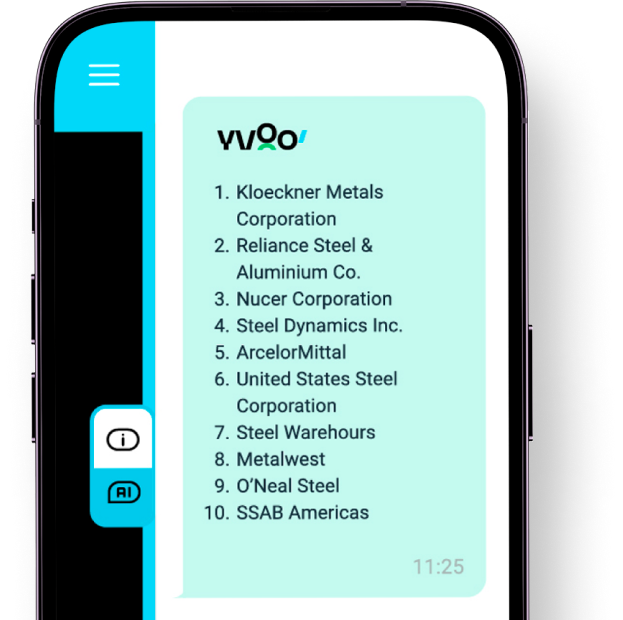
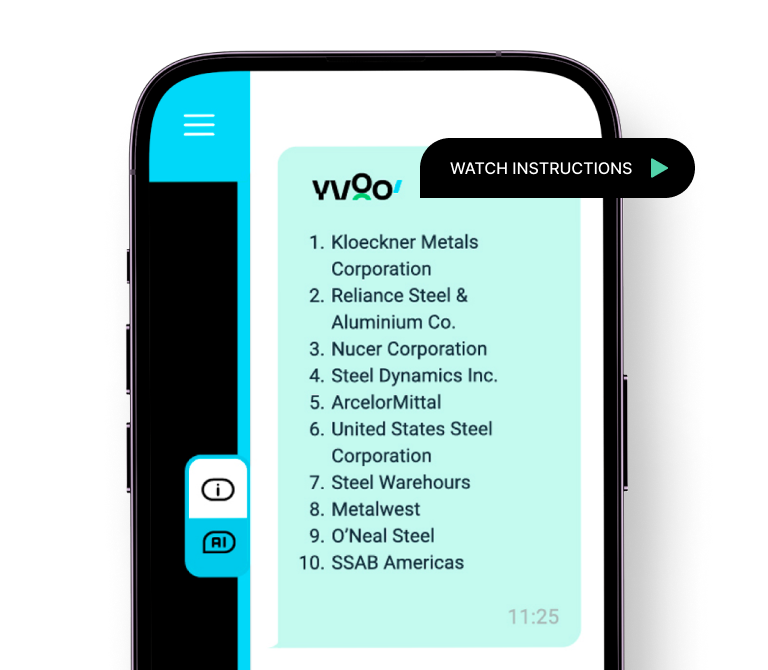
fix

diff --git a/components/Solutions/searchPro.js b/components/Solutions/searchPro.js
@@ -66,14 +66,14 @@ function SearchPro() {
           options in a matter of seconds.
         </p>
       </div>
-      <div className="relative w-full md:ml-[10px] md:min-w-[623px] min-w-[345px] 2xl:hidden block">
+      <div className="relative w-full md:min-w-[623px] min-w-[unset] 2xl:hidden block">
         <Image
-          src="/images/phone_md.png"
+          src="/images/phone_xs.png"
           alt="mobile"
           // fill
           width={746}
           height={797}
-          className="object-contain md:hidden block ml-[-17px]"
+          className="object-contain md:hidden block"
         />
         <Image
           src="/images/phone_md.png"
@@ -83,17 +83,6 @@ function SearchPro() {
           height={797}
           className="object-contain 2xl:hidden md:block hidden"
         />
-        <div className="absolute w-275px md:text-[16px] text-[12px] md:leading-[20px] leading-[16px] font-[500] md:py-[20px] py-[13px] md:pl-[30px] pl-[20px] md:pr-[26px] pr-[17px] bg-[#000] uppercase rounded-t-[30px] rounded-r-[30px] block md:top-[87px] top-[12px] md:left-[325px] left-[107px]">
-          watch instructions
-          <Image
-            src="/icons/watch-triangle.svg"
-            alt="mobile"
-            // fill
-            width={18}
-            height={18}
-            className="object-contain inline-block md:ml-[18px] ml-[13px] md:w-[unset] md:h-[unset] w-[12px] h-[18px]"
-          />
-        </div>
       </div>
     </div>
   );

diff --git a/components/Industries/scan.js b/components/Industries/scan.js
@@ -7,13 +7,13 @@ function Scan({ handleModal }) {
       id="scan"
       className="relative grid grid-cols-1 md:grid-cols-2 w-full bg-[#06D7F9]"
     >
-      <Image
+      {/* <Image
         src="/icons/greenTriangle.png"
         width={146}
         height={166}
         alt="triangle"
         className="hidden md:block absolute -top-[54px] md2:left-[18%] 2xl:left-[20%]"
-      />
+      /> */}
       <div className="px-[0px] md:px-[50px] md:py-[55px] md:py-0 md:flex-center flex-col h-[181px] md:h-[714px] 2xl:h-[914px] 3xl:h-[854px]">
         <div className="flex flex-col justify-center md:items-end md:flex-nowrap md:flex-col gap-[24px] 2xl:ml-[182px] md:mt-[128px] md:mb-[420px] md2:mr-[36px]">
           <MagnifyOnScroll

diff --git a/components/Home/auditor.js b/components/Home/auditor.js
@@ -148,7 +148,7 @@ function Auditor() {
         </div>
       </div>
       <Image
-        src="/images/bg-footer2xl.png"
+        src="/images/bg-footer2xl-1.png"
         width={905}
         height={905}
         alt="yvoo-sales"
@@ -157,7 +157,7 @@ function Auditor() {
         
       />
       <Image
-        src="/images/bg-footermd.png"
+        src="/images/bg-footermd-1.png"
         width={905}
         height={905}
         alt="yvoo-sales"
@@ -166,7 +166,7 @@ function Auditor() {
         
       />
       <Image
-        src="/images/bg-footer.png"
+        src="/images/bg-footer-1.png"
         width={905}
         height={905}
         alt="yvoo-sales"
